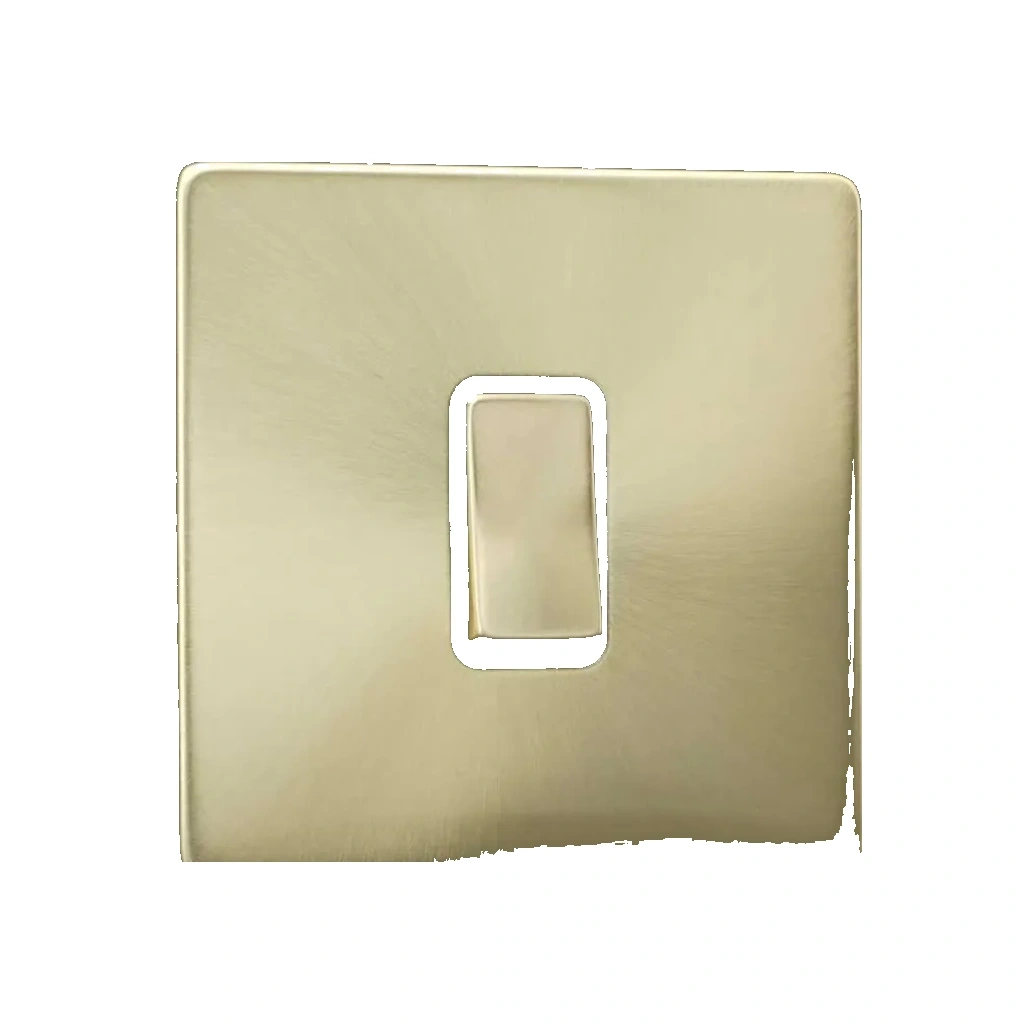
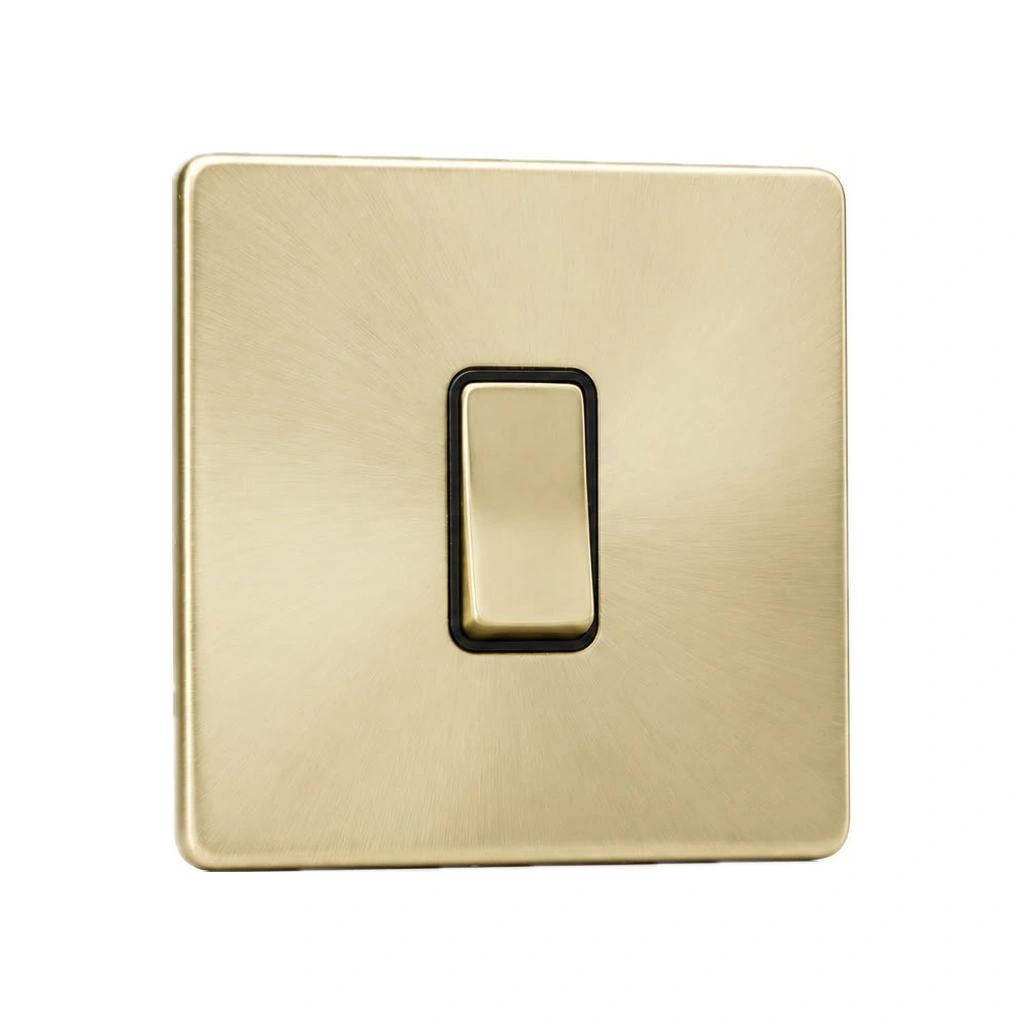
Replace CW Range image with new high-resolution gold switch photo on clean white background

Changed region(s): [[0.1562, 0.125, 0.8438, 0.875]]

diff --git a/products-data.js b/products-data.js
@@ -8,7 +8,8 @@ export const IMAGE_BG_MAP = {
   "/assets/products/cable_termination/gland.webp": "#fdfdfd",
   "/assets/products/cable_termination/insulated_terminals.webp": "#ffffff",
   "/assets/products/cable_termination/lug.webp": "#f7f7f7",
-  "/assets/products/switches/cw_range_gold_switch_1g.webp": "#2f2d2f",
+  "/assets/products/switches/cw_range_gold_switch_1g.webp": "#ffffff",
+  "/assets/products/switches/cw_range_clean.webp": "#ffffff",
   "/assets/products/switches/cw_range_gold_switch_3g_alt.webp": "#313131",
   "/assets/products/switches/cw_range_gold_twin_socket.webp": "#000000",
   "/assets/products/switches/en_range_single_socket.webp": "#000000",

diff --git a/switches.html b/switches.html
@@ -369,7 +369,7 @@
         "EN Range": "/assets/products/switches/en_range_clean.webp",
         "Metal Clad": "/assets/products/switches/metal_clad_clean.webp",
         "V Range": "/assets/products/switches/v_range_clean.webp",
-        "CW Range": "/assets/products/switches/cw_range_clean.webp"
+        "CW Range": "/assets/products/switches/cw_range_clean.webp?v=2"
       };
 
       // Descriptions mapping for each range
